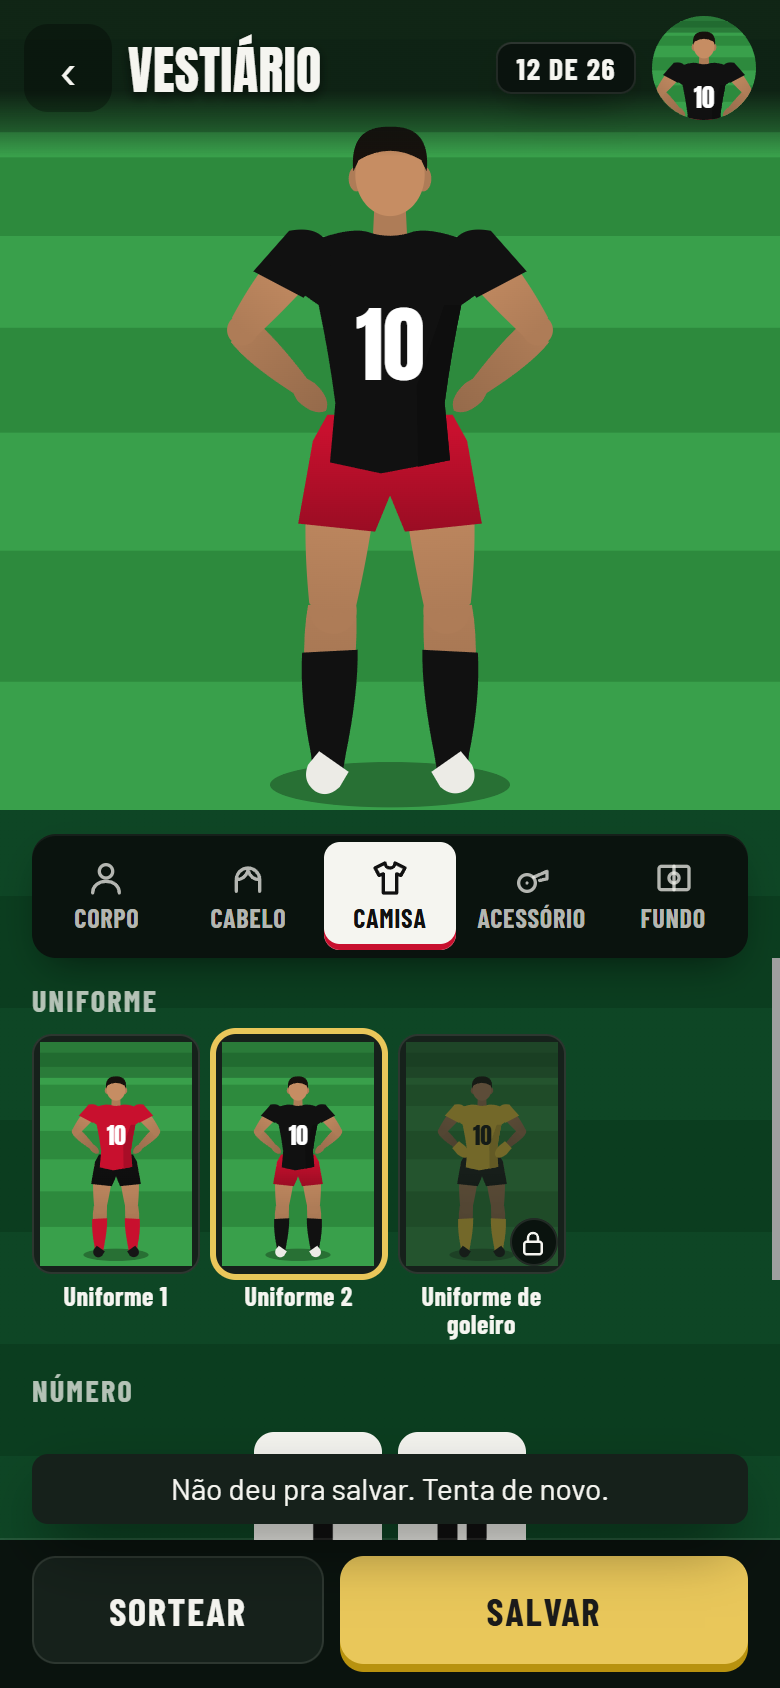
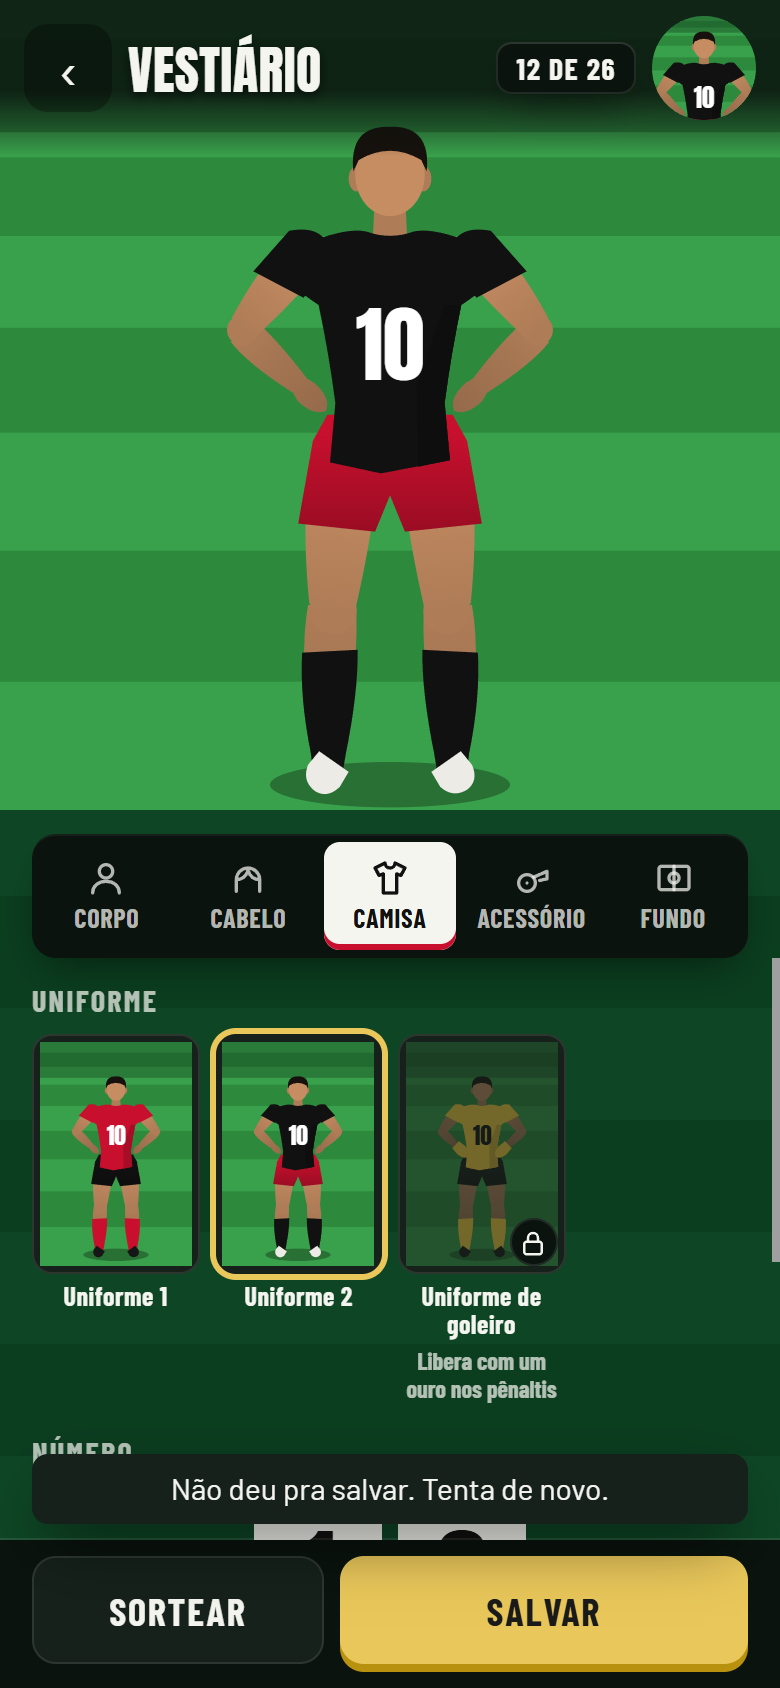
fix: achados da revisão do vestiário (prévia parada, condição na grade, um salvamento por vez, close do dialog)

diff --git a/src/telas/vestiario/tela.ts b/src/telas/vestiario/tela.ts
@@ -12,6 +12,7 @@ import {
   CORPOS,
   PELES,
   CORES_DE_CABELO,
+  textoDaCondicao,
   type Aba,
   type Peca,
   type Vestimenta,
@@ -97,7 +98,8 @@ interface Miniatura {
 export function telaVestiario(root: HTMLElement, _rota: Rota): () => void {
   const fonte = fonteDoVestiario();
   if (!fonte) {
-    // Produção, nesta etapa: ainda não existe fonte do servidor. Volta ao Perfil.
+    // Produção, nesta etapa: ainda não existe fonte do servidor. Volta ao Perfil (e tira o #vestiario do endereço).
+    if (location.hash === '#vestiario') history.replaceState(null, '', `${location.pathname}${location.search}`);
     irPara({ tela: 'perfil' });
     return () => {};
   }
@@ -224,7 +226,7 @@ function montar(
 
   function desenharPrevia(): void {
     const c = ajustar(canvasPrevia, 52, 52);
-    desenharBoneco(c, atual, cores, 'busto', 52, 52);
+    desenharBoneco(c, parado(atual), cores, 'busto', 52, 52);
   }
 
   function pintar(m: Miniatura): void {
@@ -295,7 +297,15 @@ function montar(
     return b;
   }
 
-  function itemDaGrade(nome: string, rotuloExtra: string | null, canvas: HTMLCanvasElement, marcado: (() => boolean) | null, aoTocar: () => void, trancada = false): HTMLButtonElement {
+  function itemDaGrade(
+    nome: string,
+    rotuloExtra: string | null,
+    canvas: HTMLCanvasElement,
+    marcado: (() => boolean) | null,
+    aoTocar: () => void,
+    trancada = false,
+    condicao?: string,
+  ): HTMLButtonElement {
     const b = botao('vest-item');
     if (rotuloExtra) b.setAttribute('aria-label', rotuloExtra);
     const mini = e('span', 'vest-mini');
@@ -307,6 +317,7 @@ function montar(
       mini.append(cad);
     }
     b.append(mini, e('span', 'vest-nome', nome));
+    if (condicao) b.append(e('span', 'vest-condicao', condicao));
     if (marcado) {
       const marca = () => b.setAttribute('aria-pressed', String(marcado()));
       marca();
@@ -349,15 +360,17 @@ function montar(
     const canvas = miniaturaDaPeca(p);
     return itemDaGrade(
       p.nome,
-      livre ? null : `${p.nome}, trancada`,
+      livre ? null : `${p.nome}, trancada. ${textoDaCondicao(p)}`,
       canvas,
       livre ? () => pecaVestida(atual, p) : null,
       () => {
         const t = tocarPeca(atual, p, liberadas);
-        if (t.tipo === 'vestiu') mudar(t.vestimenta);
-        else abrirFolha(t.peca);
+        if (t.tipo === 'trancada') abrirFolha(t.peca);
+        // Camisa ou fundo que já está vestido: nada muda, nada pula.
+        else if (t.vestimenta !== atual) mudar(t.vestimenta);
       },
       !livre,
+      livre ? undefined : textoDaCondicao(p),
     );
   }
 
@@ -513,6 +526,8 @@ function montar(
     d.addEventListener('click', (ev) => {
       if (ev.target === d) porToque();
     });
+    // Se o navegador fechar o dialog sem `cancel` (voltar do Android pelo CloseWatcher), a camada sai junto.
+    d.addEventListener('close', () => porToque());
     const btnSalvarSair = d.querySelector<HTMLButtonElement>('[data-salvar-sair]')!;
     const btnSair = d.querySelector<HTMLButtonElement>('[data-sair]')!;
     btnSair.addEventListener('click', sair);
@@ -532,14 +547,21 @@ function montar(
   // ---------- rodapé ----------
 
   function marcarBotoes(): void {
+    root.querySelector('.vest')?.classList.toggle('salvando', salvando);
     btnSalvar.disabled = salvando;
     btnSortear.disabled = salvando;
     btnSalvar.textContent = salvando ? 'Salvando…' : 'Salvar';
   }
 
   /** Grava pelo servidor. Devolve se deu certo; em erro, a escolha fica na tela para tentar de novo. */
-  async function salvar(): Promise<boolean> {
-    if (salvando) return false;
+  let emAndamento: Promise<boolean> | null = null;
+  /** Um salvamento por vez: quem toca Salvar no meio de outro espera o mesmo resultado. */
+  function salvar(): Promise<boolean> {
+    emAndamento ??= gravar().finally(() => (emAndamento = null));
+    return emAndamento;
+  }
+
+  async function gravar(): Promise<boolean> {
     salvando = true;
     marcarBotoes();
     avisar('');

diff --git a/src/jogo/vestiarioTela.test.ts b/src/jogo/vestiarioTela.test.ts
@@ -106,8 +106,17 @@ describe('toque numa peça', () => {
     const de = tocarPeca(v, peca('colete'), livres);
     expect(de.tipo === 'vestiu' && de.vestimenta.peito).toBe('nenhum');
   });
-  it('camisa e fundo não ficam vazios', () => {
+  it('moldura e pose também saem com o segundo toque', () => {
+    const tudo = new Set(PECAS.map((p) => p.id));
+    const com = { ...PADRAO, moldura: 'dourada' as const, pose: 'bracos' as const };
+    const m = tocarPeca(com, peca('moldura_dourada'), tudo);
+    expect(m.tipo === 'vestiu' && m.vestimenta.moldura).toBe('nenhuma');
+    const p = tocarPeca(com, peca('pose_bracos'), tudo);
+    expect(p.tipo === 'vestiu' && p.vestimenta.pose).toBe('parado');
+  });
+  it('camisa e fundo não ficam vazios (a mesma vestimenta volta, sem mudança)', () => {
     const r = tocarPeca(PADRAO, peca('uni1'), livres);
+    expect(r.tipo === 'vestiu' && r.vestimenta).toBe(PADRAO);
     expect(r.tipo === 'vestiu' && r.vestimenta.camisa).toBe('uni1');
     const f = tocarPeca(PADRAO, peca('fundo_gramado'), livres);
     expect(f.tipo === 'vestiu' && f.vestimenta.fundo).toBe('gramado');
@@ -181,6 +190,23 @@ describe('folha da peça trancada', () => {
       ],
     });
     expect(f.falta).toEqual(['O ouro sai com 100 gols e 10 vitórias numa mesma disputa de pênaltis.', 'Faltam 40 gols e 7 vitórias na disputa mais perto.']);
+  });
+  it('singular de recriando e vitória', () => {
+    const lance = folhaDaTrancada(peca('chuteira_dourada'), { ...semNada, medalhas: [{ tipo: 'lance', gols: 50, recriados: 9, vitorias: 0, daSelecao: false }] });
+    expect(lance.falta?.[1]).toBe('Falta 1 recriando no lance mais perto.');
+    const disputa = folhaDaTrancada(peca('goleiro'), { ...semNada, medalhas: [{ tipo: 'disputa', gols: 100, recriados: 0, vitorias: 9, daSelecao: false }] });
+    expect(disputa.falta?.[1]).toBe('Falta 1 vitória na disputa mais perto.');
+  });
+  it('ouro da Seleção só olha os itens da Seleção', () => {
+    const f = folhaDaTrancada(peca('fundo_verde_amarelo'), {
+      ...semNada,
+      medalhas: [
+        { tipo: 'lance', gols: 49, recriados: 10, vitorias: 0, daSelecao: false },
+        { tipo: 'lance', gols: 30, recriados: 10, vitorias: 0, daSelecao: true },
+      ],
+    });
+    expect(f.falta).toEqual(['Vale o ouro em qualquer lance ou disputa da Seleção.', 'Faltam 20 gols no lance mais perto.']);
+    expect(folhaDaTrancada(peca('fundo_verde_amarelo'), semNada).falta?.[1]).toBe('Ainda sem gol valendo num item da Seleção.');
   });
   it('5 ouros conta quantos já tem', () => {
     const ouro = { tipo: 'lance' as const, gols: 50, recriados: 10, vitorias: 0, daSelecao: false };

diff --git a/src/estilos/vestiario.css b/src/estilos/vestiario.css
@@ -213,6 +213,19 @@
   overflow-wrap: anywhere;
 }
 
+/* Condição da trancada embaixo do nome ("Libera no Craque"). */
+.vest-condicao {
+  font: 600 12px/1.15 var(--fonte-rotulo);
+  color: var(--texto-suave);
+  text-align: center;
+  overflow-wrap: anywhere;
+}
+
+/* Gravando: as peças não respondem (o rodapé já fica desabilitado). */
+.vest.salvando .vest-conteudo {
+  pointer-events: none;
+}
+
 /* ---------- amostras redondas (pele e cor do cabelo) ---------- */
 .vest-amostras {
   display: flex;

diff --git a/src/telas/vestiario/folhaTrancada.ts b/src/telas/vestiario/folhaTrancada.ts
@@ -71,6 +71,8 @@ export function abrirFolhaTrancada(o: OpcoesDaFolha): () => void {
     if (e.target === d) porToque();
   });
   d.querySelector('[data-entendi]')!.addEventListener('click', porToque);
+  // Se o navegador fechar o dialog sem `cancel` (voltar do Android pelo CloseWatcher), a camada sai junto.
+  d.addEventListener('close', () => porToque());
   d.showModal();
   o.desenhar(canvas, w, h);
   return desmontar;

diff --git a/docs/proximos-passos.md b/docs/proximos-passos.md
@@ -45,7 +45,7 @@ Quatro trilhos, que rodam em paralelo (fila decidida pelo Kauê em 05/11/2026). 
   3. **D5b, servidor (próximo):** tabela da vestimenta com RLS, gravação só por função que passa pelo `validar` com as peças liberadas contadas no banco (nível, `lances_gols`, bônus do aquecimento), boneco sorteado na conta nova, "Ver meus dados", "Apagar meus dados", contas paradas, junção de contas (fica o de quem gerou o código) e o zerar da pré-temporada (sobrevive). Migração e função: dry-run antes e **revisão de segurança antes de aplicar**.
   4. **D5c, telas:** Perfil (crachá de 84 px e bloco Vestiário), Home (busto de 52 px), vestiário, peça trancada e peça nova. O desenho entra por `import()`, para o bundle inicial não crescer.
      - **D5c1, vestiário e peça trancada:** branch `claude/vestiario-tela`, com fonte falsa (`?vestiarioFalso`). Prints em `docs/auditoria/2026-11-05/vestiario/`, **esperando a aprovação do Kauê antes do merge**. A rota `#vestiario` existe, mas sem link.
-     - **D5c2, ligação:** a fonte do servidor em `src/telas/vestiario/fonte.ts` (`definirFonteDoVestiario`), com as funções do D5b, e o botão "Abrir vestiário" do Perfil. Depois, Home, crachá e peça nova.
+     - **D5c2, ligação:** a fonte do servidor em `src/telas/vestiario/fonte.ts` (`definirFonteDoVestiario`), com as funções do D5b, e o botão "Abrir vestiário" do Perfil. Depois, Home, crachá e peça nova. **Junto com o botão:** quando outra coisa troca a tela com o vestiário aberto (sair da conta, `hashchange`), o estado que o `voltar.ts` empurrou fica no history e o próximo voltar do Android "não faz nada" uma vez (achado da revisão do D5c1; hoje não acontece porque não há link).
 
 ## Conferir primeiro
 
